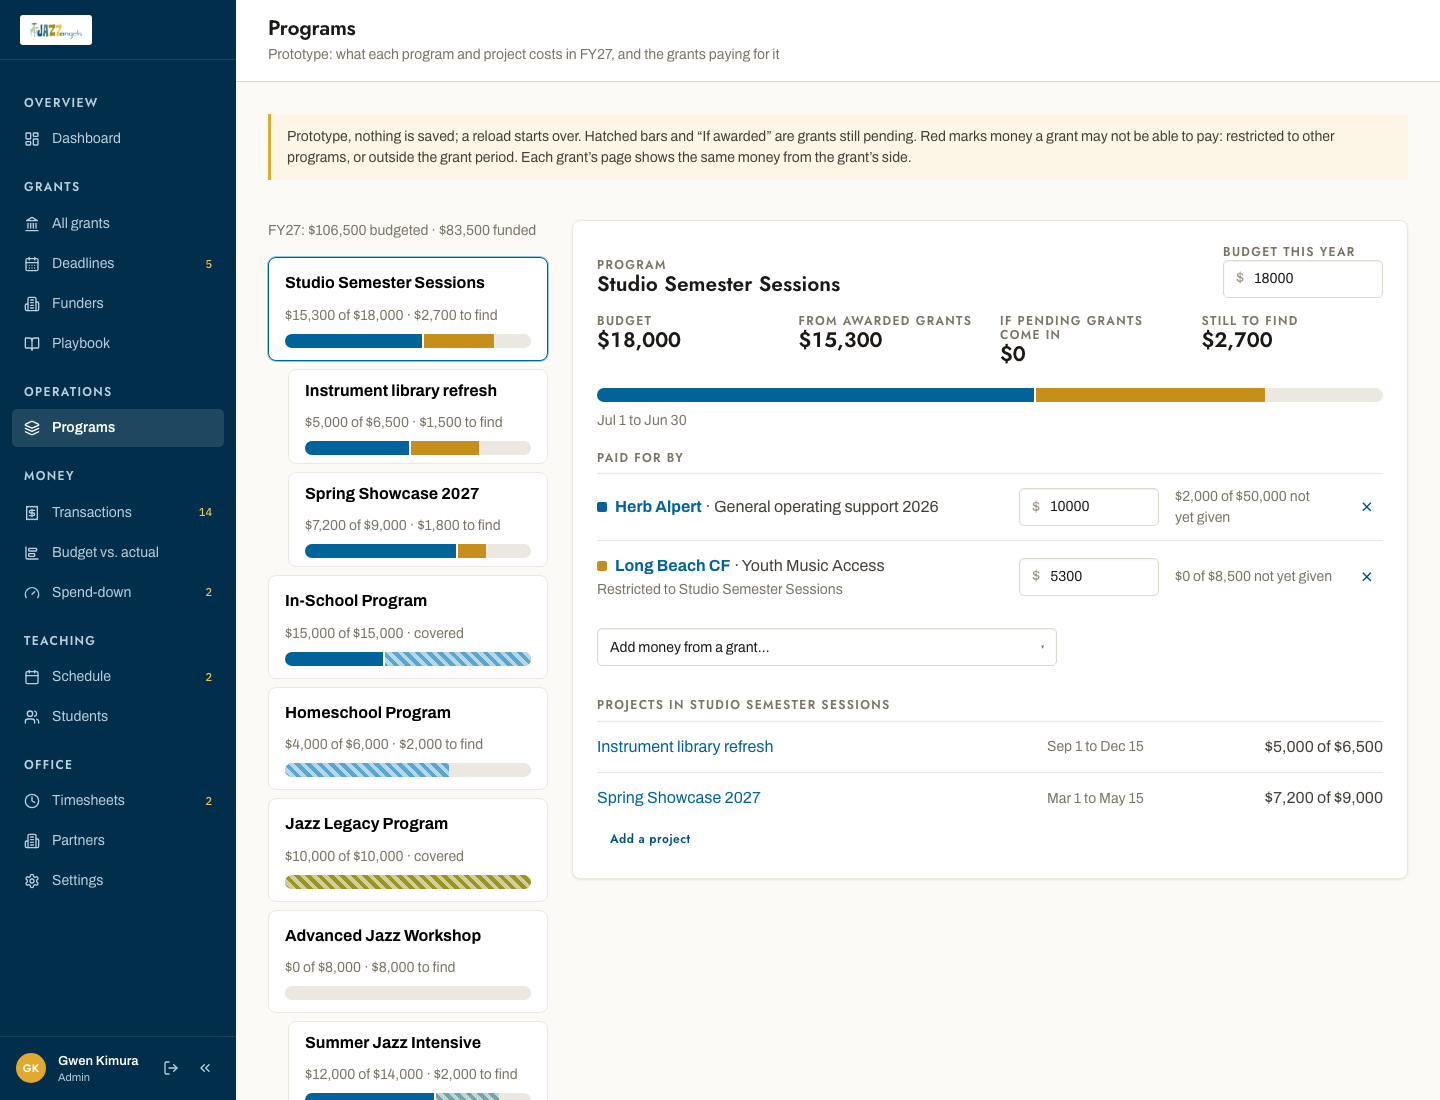
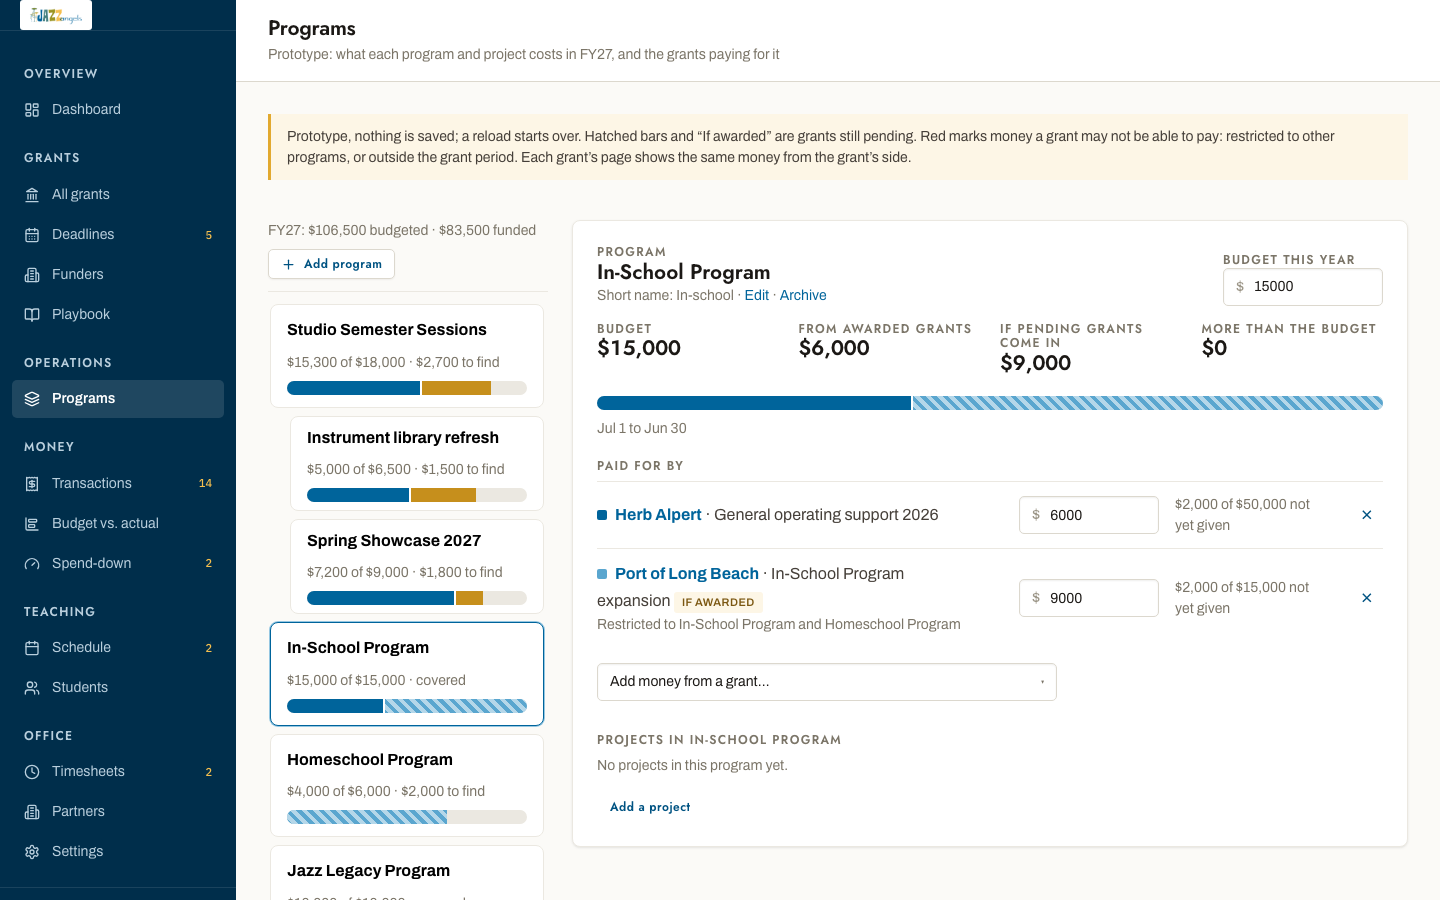
Prototype: add, edit and archive programs on the Programs page
Add program, Edit, Archive, Restore and Show archived move onto the
Programs page, using the real core actions and Settings' program dialog,
so they save with the demo data (Reset demo data undoes them). The list
of programs and projects scrolls in its own column and stays in view.

diff --git a/src/modules/grants/screens/prototype-projects/ProgramsPrototype.tsx b/src/modules/grants/screens/prototype-projects/ProgramsPrototype.tsx
@@ -6,10 +6,14 @@
  */
 import React from 'react';
 import { Link, useSearchParams } from 'react-router-dom';
-import { Badge, Button, Card, Input, Select } from '../../../../design-system';
-import { dateShort, money, programName, useStore } from '../../../../core';
+import { Badge, Button, Card, Icon, Input, Select } from '../../../../design-system';
+import { archivedOnly, dateShort, money, programName, useCan, useStore } from '../../../../core';
 import type { PortalState } from '../../../../core';
 import { usePageHeader } from '../../../../app/Shell';
+import { useToast } from '../../../../app/ToastHost';
+import { ArchiveDialog, ShowArchivedSwitch } from '../../../../app/components/archive';
+import { ProgramDialog } from '../../../../app/screens/settings/ProgramsCard';
+import type { ProgramDraft } from '../../../../app/screens/settings/ProgramsCard';
 import {
   firmIds,
   funded,
@@ -30,17 +34,22 @@ import type { Source, Target } from './model';
 import './prototype.css';
 
 export default function ProgramsPrototype() {
-  const { state, today } = useStore();
+  const { state, today, actions } = useStore();
   const [proto, update] = useProto();
   const [params, setParams] = useSearchParams();
+  const mayEditPrograms = useCan()('programs', 'edit');
+  const toast = useToast();
+  const [showArchived, setShowArchived] = React.useState(false);
+  const [draft, setDraft] = React.useState<ProgramDraft | null>(null);
+  const [archiving, setArchiving] = React.useState<Target | null>(null);
   const srcs = React.useMemo(() => sources(state), [state]);
   const firm = firmIds(srcs);
-  const all = targets(state, proto, today);
+  const all = targets(state, proto, today, showArchived);
   const fy = fyOf(state, today);
   const selected = all.find(t => t.key === params.get('sel')) ?? all[0];
   const select = (key: string) => setParams({ sel: key }, { replace: true });
 
-  const budgeted = sum(all.filter(t => t.kind === 'program').map(t => t.budget));
+  const budgeted = sum(all.filter(t => t.kind === 'program' && !t.archived).map(t => t.budget));
   const totals = all.map(t => funded(proto, t.key, firm));
   const programTargets = all.filter(t => t.kind === 'program');
 
@@ -70,28 +79,49 @@ export default function ProgramsPrototype() {
       </div>
 
       <div className="pp-a">
-        <div className="pp-a__list">
-          <div className="pp-muted" style={{ marginBottom: 'var(--space-2)' }}>
-            {fy.label}: {money(budgeted + sum(proto.projects.map(p => p.budget)))} budgeted ·{' '}
-            {money(sum(totals.map(t => t.total)))} funded
+        <div className="pp-a__side">
+          <div className="pp-a__side-head">
+            <div className="pp-muted">
+              {fy.label}: {money(budgeted + sum(proto.projects.map(p => p.budget)))} budgeted ·{' '}
+              {money(sum(totals.map(t => t.total)))} funded
+            </div>
+            <div className="pp-a__side-actions">
+              {mayEditPrograms && (
+                <Button
+                  variant="secondary"
+                  size="sm"
+                  iconLeft={<Icon name="plus" size={15} />}
+                  onClick={() => setDraft({ name: '', short: '' })}
+                >
+                  Add program
+                </Button>
+              )}
+              <ShowArchivedSwitch
+                count={archivedOnly(state.core.programs).length}
+                checked={showArchived}
+                onChange={setShowArchived}
+              />
+            </div>
           </div>
-          {programTargets.map(p => {
-            const projects = all.filter(t => t.kind === 'project' && t.program === p.program);
-            return (
-              <React.Fragment key={p.key}>
-                <ListItem target={p} selected={selected} onSelect={select} srcs={srcs} />
-                {projects.map(t => (
-                  <ListItem
-                    key={t.key}
-                    target={t}
-                    selected={selected}
-                    onSelect={select}
-                    srcs={srcs}
-                  />
-                ))}
-              </React.Fragment>
-            );
-          })}
+          <div className="pp-a__list">
+            {programTargets.map(p => {
+              const projects = all.filter(t => t.kind === 'project' && t.program === p.program);
+              return (
+                <React.Fragment key={p.key}>
+                  <ListItem target={p} selected={selected} onSelect={select} srcs={srcs} />
+                  {projects.map(t => (
+                    <ListItem
+                      key={t.key}
+                      target={t}
+                      selected={selected}
+                      onSelect={select}
+                      srcs={srcs}
+                    />
+                  ))}
+                </React.Fragment>
+              );
+            })}
+          </div>
         </div>
 
         {selected && (
@@ -103,10 +133,55 @@ export default function ProgramsPrototype() {
               all={all}
               onSelect={select}
               onAddProject={addProject}
+              onEditProgram={
+                mayEditPrograms
+                  ? () => {
+                      const p = state.core.programs.find(x => x.id === selected.program);
+                      if (p) setDraft({ id: p.id, name: p.name, short: p.short });
+                    }
+                  : undefined
+              }
+              onArchiveProgram={mayEditPrograms ? () => setArchiving(selected) : undefined}
+              onRestoreProgram={
+                mayEditPrograms
+                  ? () => {
+                      actions.core.restoreProgram(selected.program);
+                      toast({
+                        tone: 'success',
+                        title: 'Program restored',
+                        message: `${selected.name} is back in the pickers.`,
+                      });
+                    }
+                  : undefined
+              }
             />
           </Card>
         )}
       </div>
+
+      {draft && (
+        <ProgramDialog
+          draft={draft}
+          onClose={() => setDraft(null)}
+          onAdded={id => select(programKey(id))}
+        />
+      )}
+
+      {archiving && (
+        <ArchiveDialog
+          title={`Archive ${archiving.name}?`}
+          message="It leaves this page and the pickers for new grants, students, ensembles and hours. Everything that already names it keeps it, and you can restore it."
+          onConfirm={() => {
+            actions.core.archiveProgram(archiving.program);
+            toast({
+              tone: 'success',
+              title: 'Program archived',
+              message: `${archiving.name} is off the list. Restore it from Show archived.`,
+            });
+          }}
+          onClose={() => setArchiving(null)}
+        />
+      )}
 
       <details className="pp-state">
         <summary>Prototype state</summary>
@@ -135,7 +210,9 @@ function ListItem({
       aria-current={t.key === selected?.key}
       onClick={() => onSelect(t.key)}
     >
-      <strong>{t.name}</strong>
+      <strong>
+        {t.name} {t.archived && <Badge tone="neutral">Archived</Badge>}
+      </strong>
       <span className="pp-muted">
         {t.budget === 0
           ? `${money(f.total)} · no budget yet`
@@ -161,6 +238,9 @@ function Sheet({
   all,
   onSelect,
   onAddProject,
+  onEditProgram,
+  onArchiveProgram,
+  onRestoreProgram,
 }: {
   state: PortalState;
   target: Target;
@@ -168,6 +248,10 @@ function Sheet({
   all: Target[];
   onSelect: (key: string) => void;
   onAddProject: (program: string) => void;
+  /** Unset for a role that may not change programs (decision 0001: Admin and Director). */
+  onEditProgram?: () => void;
+  onArchiveProgram?: () => void;
+  onRestoreProgram?: () => void;
 }) {
   const [proto, update] = useProto();
   const firm = firmIds(srcs);
@@ -191,7 +275,32 @@ function Sheet({
         <div className="pp-head">
           <div style={{ flex: 1 }}>
             <div className="pp-label">Program</div>
-            <div className="pp-title">{t.name}</div>
+            <div className="pp-title">
+              {t.name} {t.archived && <Badge tone="neutral">Archived</Badge>}
+            </div>
+            <div className="pp-muted">
+              Short name: {state.core.programs.find(p => p.id === t.program)?.short}
+              {onEditProgram && !t.archived && (
+                <>
+                  {' · '}
+                  <button className="pp-linkish" onClick={onEditProgram}>
+                    Edit
+                  </button>
+                  {' · '}
+                  <button className="pp-linkish" onClick={onArchiveProgram}>
+                    Archive
+                  </button>
+                </>
+              )}
+              {onRestoreProgram && t.archived && (
+                <>
+                  {' · '}
+                  <button className="pp-linkish" onClick={onRestoreProgram}>
+                    Restore
+                  </button>
+                </>
+              )}
+            </div>
           </div>
           <div style={{ width: 160 }}>
             <div className="pp-label">Budget this year</div>
@@ -259,7 +368,7 @@ function Sheet({
         <Fig label="From awarded grants" value={money(f.firm)} />
         <Fig label="If pending grants come in" value={money(f.hoped)} />
         <Fig
-          label={f.total >= t.budget ? 'More than the budget' : 'Still to find'}
+          label={f.total > t.budget ? 'More than the budget' : 'Still to find'}
           value={money(Math.abs(t.budget - f.total))}
         />
       </div>

diff --git a/src/app/screens/settings/ProgramsCard.tsx b/src/app/screens/settings/ProgramsCard.tsx
@@ -22,7 +22,7 @@ import {
 } from '../../../core';
 import type { Program } from '../../../core';
 
-interface ProgramDraft {
+export interface ProgramDraft {
   id?: string;
   name: string;
   short: string;
@@ -198,7 +198,16 @@ export default function ProgramsCard() {
 }
 
 /** Add program or Edit program: the name, and the short name a tab or a narrow column uses. */
-function ProgramDialog({ draft, onClose }: { draft: ProgramDraft; onClose: () => void }) {
+export function ProgramDialog({
+  draft,
+  onClose,
+  onAdded,
+}: {
+  draft: ProgramDraft;
+  onClose: () => void;
+  /** PROTOTYPE — lets /prototype/programs select the program it just added. */
+  onAdded?: (id: string) => void;
+}) {
   const { state, actions } = useStore();
   const toast = useToast();
   const [name, setName] = React.useState(draft.name);
@@ -216,7 +225,8 @@ function ProgramDialog({ draft, onClose }: { draft: ProgramDraft; onClose: () =>
       actions.core.updateProgram(draft.id, { name, short });
       toast({ tone: 'success', title: 'Program updated', message: name.trim() });
     } else {
-      actions.core.addProgram({ name, short });
+      const id = actions.core.addProgram({ name, short });
+      if (id) onAdded?.(id);
       toast({ tone: 'success', title: 'Program added', message: name.trim() });
     }
     onClose();

diff --git a/src/modules/grants/screens/prototype-projects/model.ts b/src/modules/grants/screens/prototype-projects/model.ts
@@ -59,6 +59,8 @@ export interface Target {
   start: string;
   end: string;
   budget: number;
+  /** An archived program, listed only with Show archived. */
+  archived?: boolean;
 }
 
 const FIRM_PHASES = ['awarded', 'active', 'reporting'];
@@ -99,10 +101,16 @@ export function fyOf(state: PortalState, today: string) {
 }
 
 /** Every program, then every project, as targets for the fiscal year. */
-export function targets(state: PortalState, s: ProtoState, today: string): Target[] {
+export function targets(
+  state: PortalState,
+  s: ProtoState,
+  today: string,
+  includeArchived = false,
+): Target[] {
   const fy = fyOf(state, today);
+  const programs = includeArchived ? state.core.programs : activeOnly(state.core.programs);
   return [
-    ...activeOnly(state.core.programs).map(p => ({
+    ...programs.map(p => ({
       key: programKey(p.id),
       kind: 'program' as const,
       name: p.name,
@@ -110,6 +118,7 @@ export function targets(state: PortalState, s: ProtoState, today: string): Targe
       start: fy.start,
       end: fy.end,
       budget: s.programBudgets[p.id] ?? 0,
+      archived: Boolean(p.archivedAt),
     })),
     ...s.projects.map(p => ({
       key: projectKey(p.id),

diff --git a/src/modules/grants/screens/prototype-projects/prototype.css b/src/modules/grants/screens/prototype-projects/prototype.css
@@ -250,3 +250,32 @@
 .pp-c__chip a {
   color: var(--text-link);
 }
+
+/* The list keeps to the window and scrolls on its own; the sheet scrolls with the page. */
+.pp-a__side {
+  position: sticky;
+  top: var(--space-4);
+  display: flex;
+  flex-direction: column;
+  gap: var(--space-3);
+  max-height: max(360px, calc(100vh - 340px));
+  min-height: 0;
+}
+.pp-a__side-head {
+  display: flex;
+  flex-direction: column;
+  gap: var(--space-2);
+}
+.pp-a__side-actions {
+  display: flex;
+  align-items: center;
+  justify-content: space-between;
+  gap: var(--space-3);
+}
+.pp-a__side .pp-a__list {
+  overflow-y: auto;
+  min-height: 0;
+  padding: 2px 4px 2px 2px;
+  border-top: var(--border-width) solid var(--border-subtle);
+  padding-top: var(--space-3);
+}
